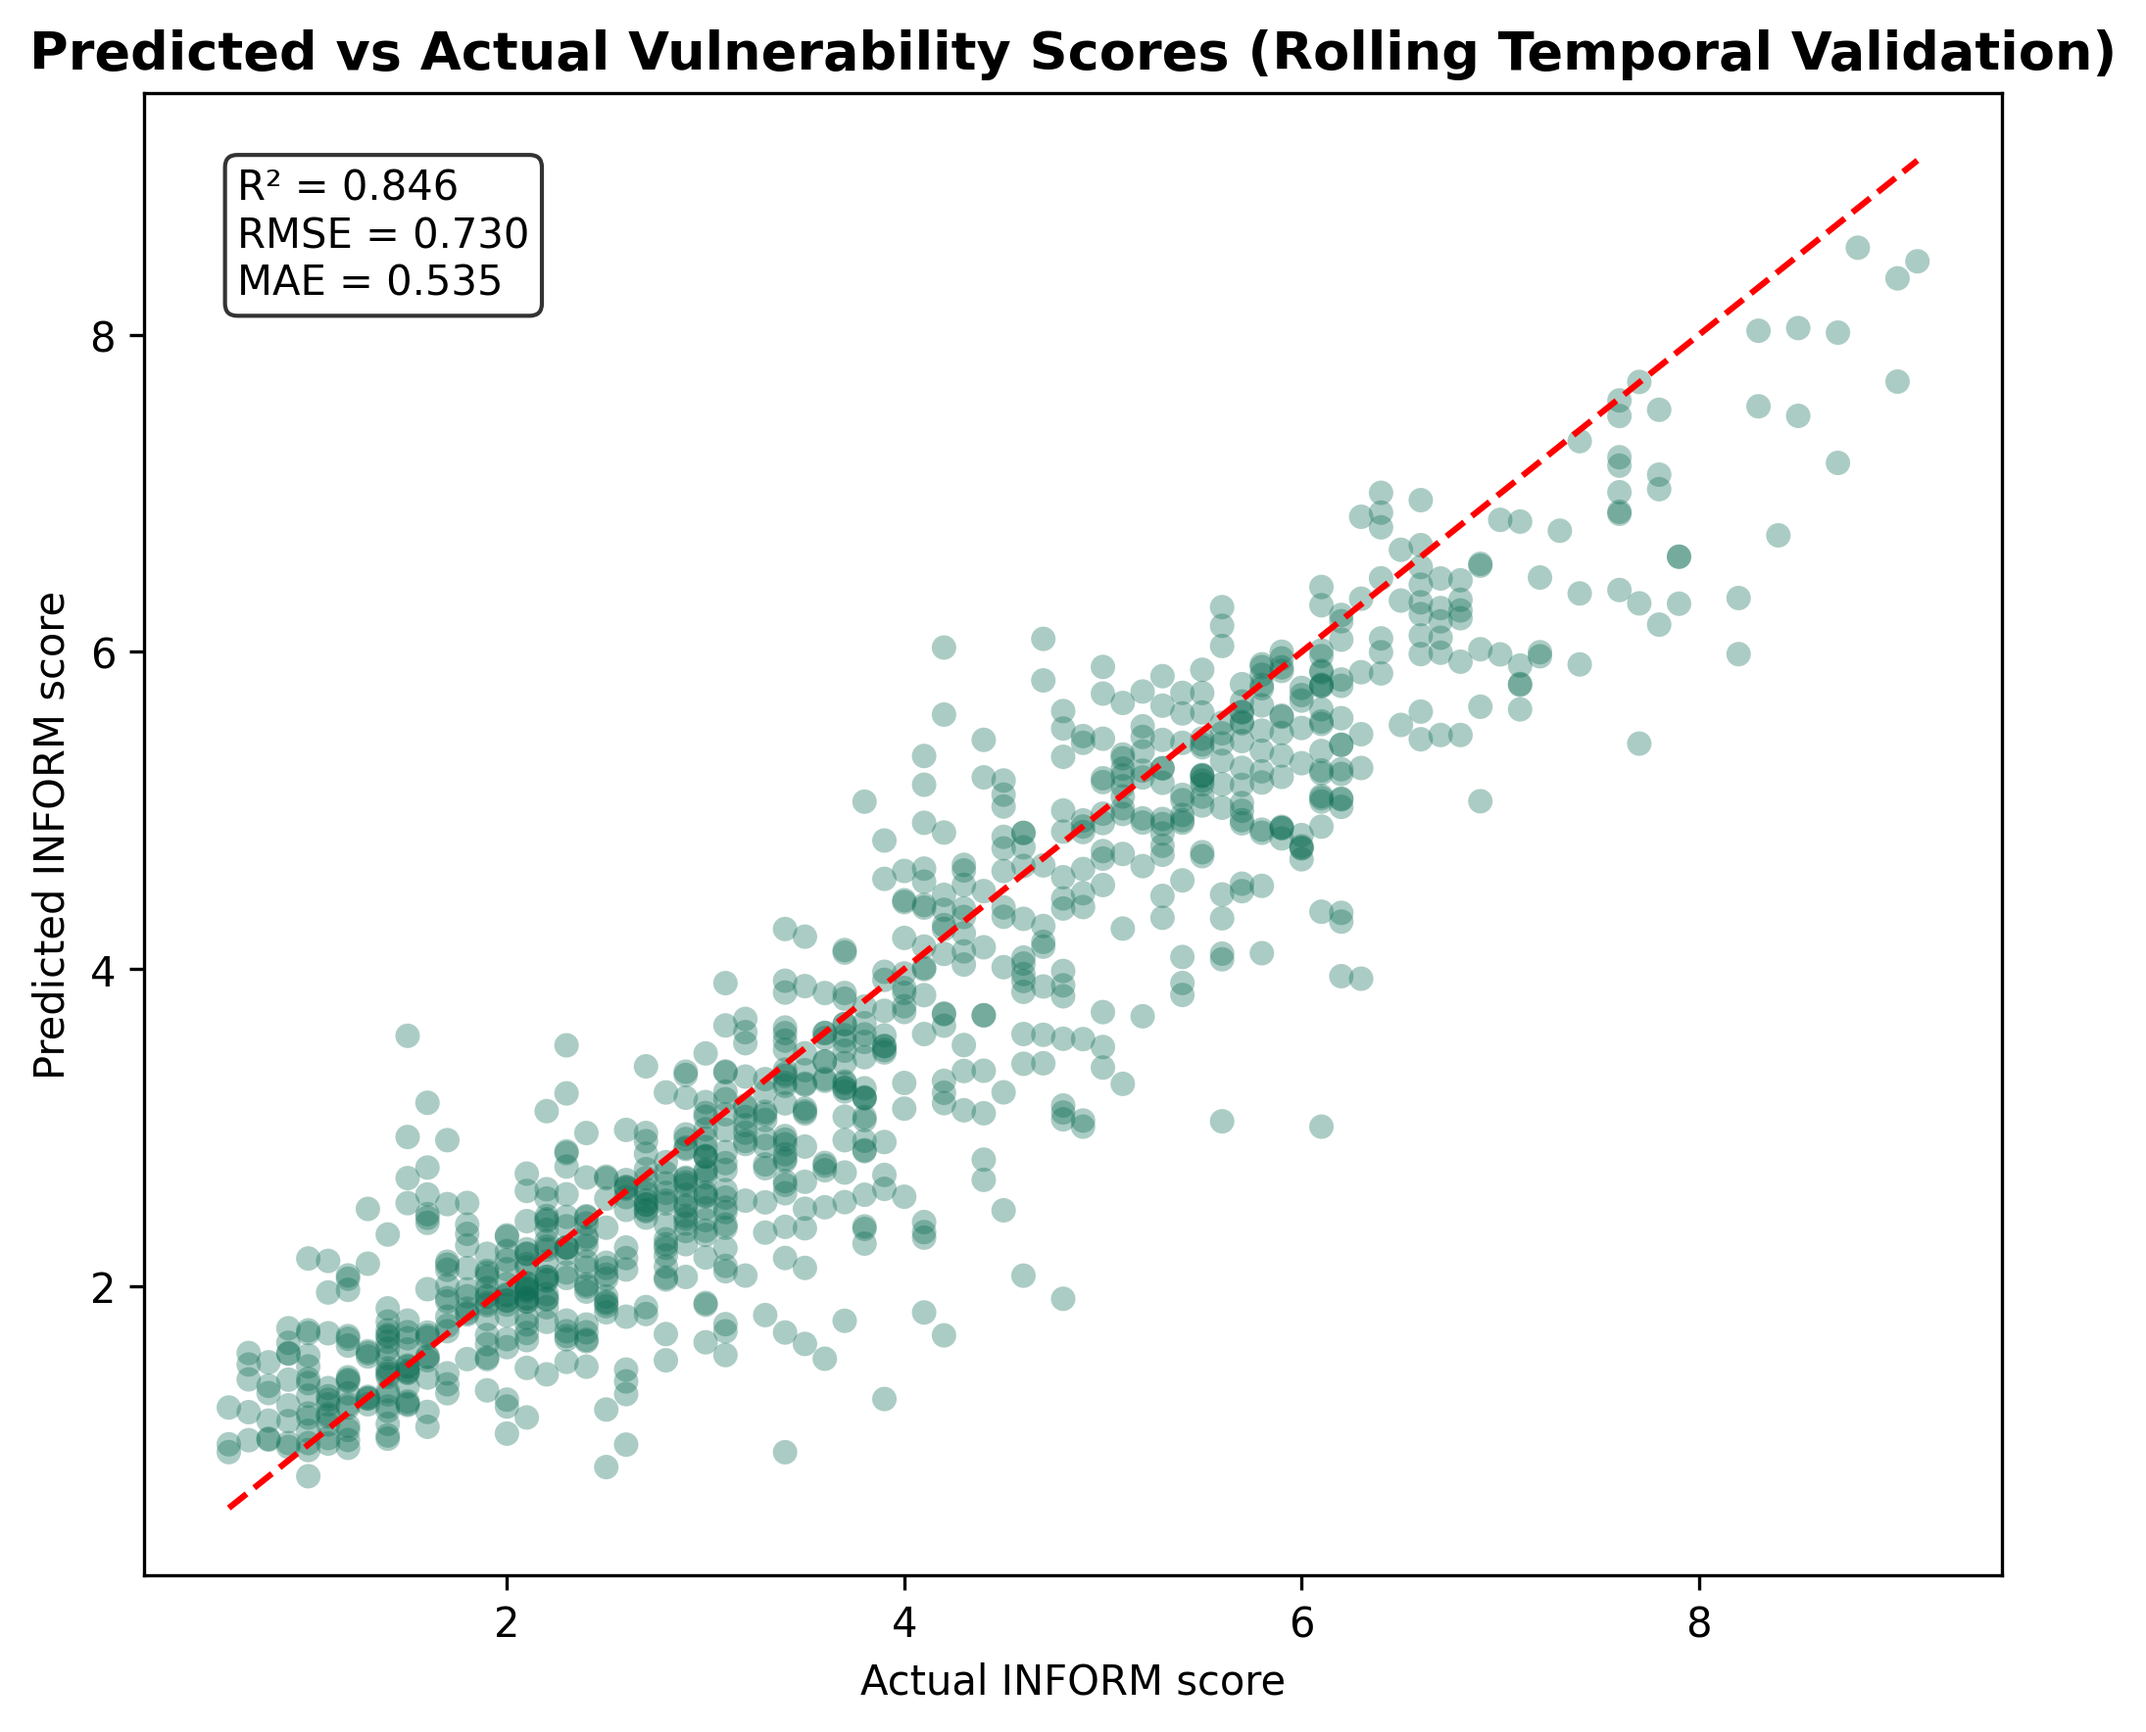
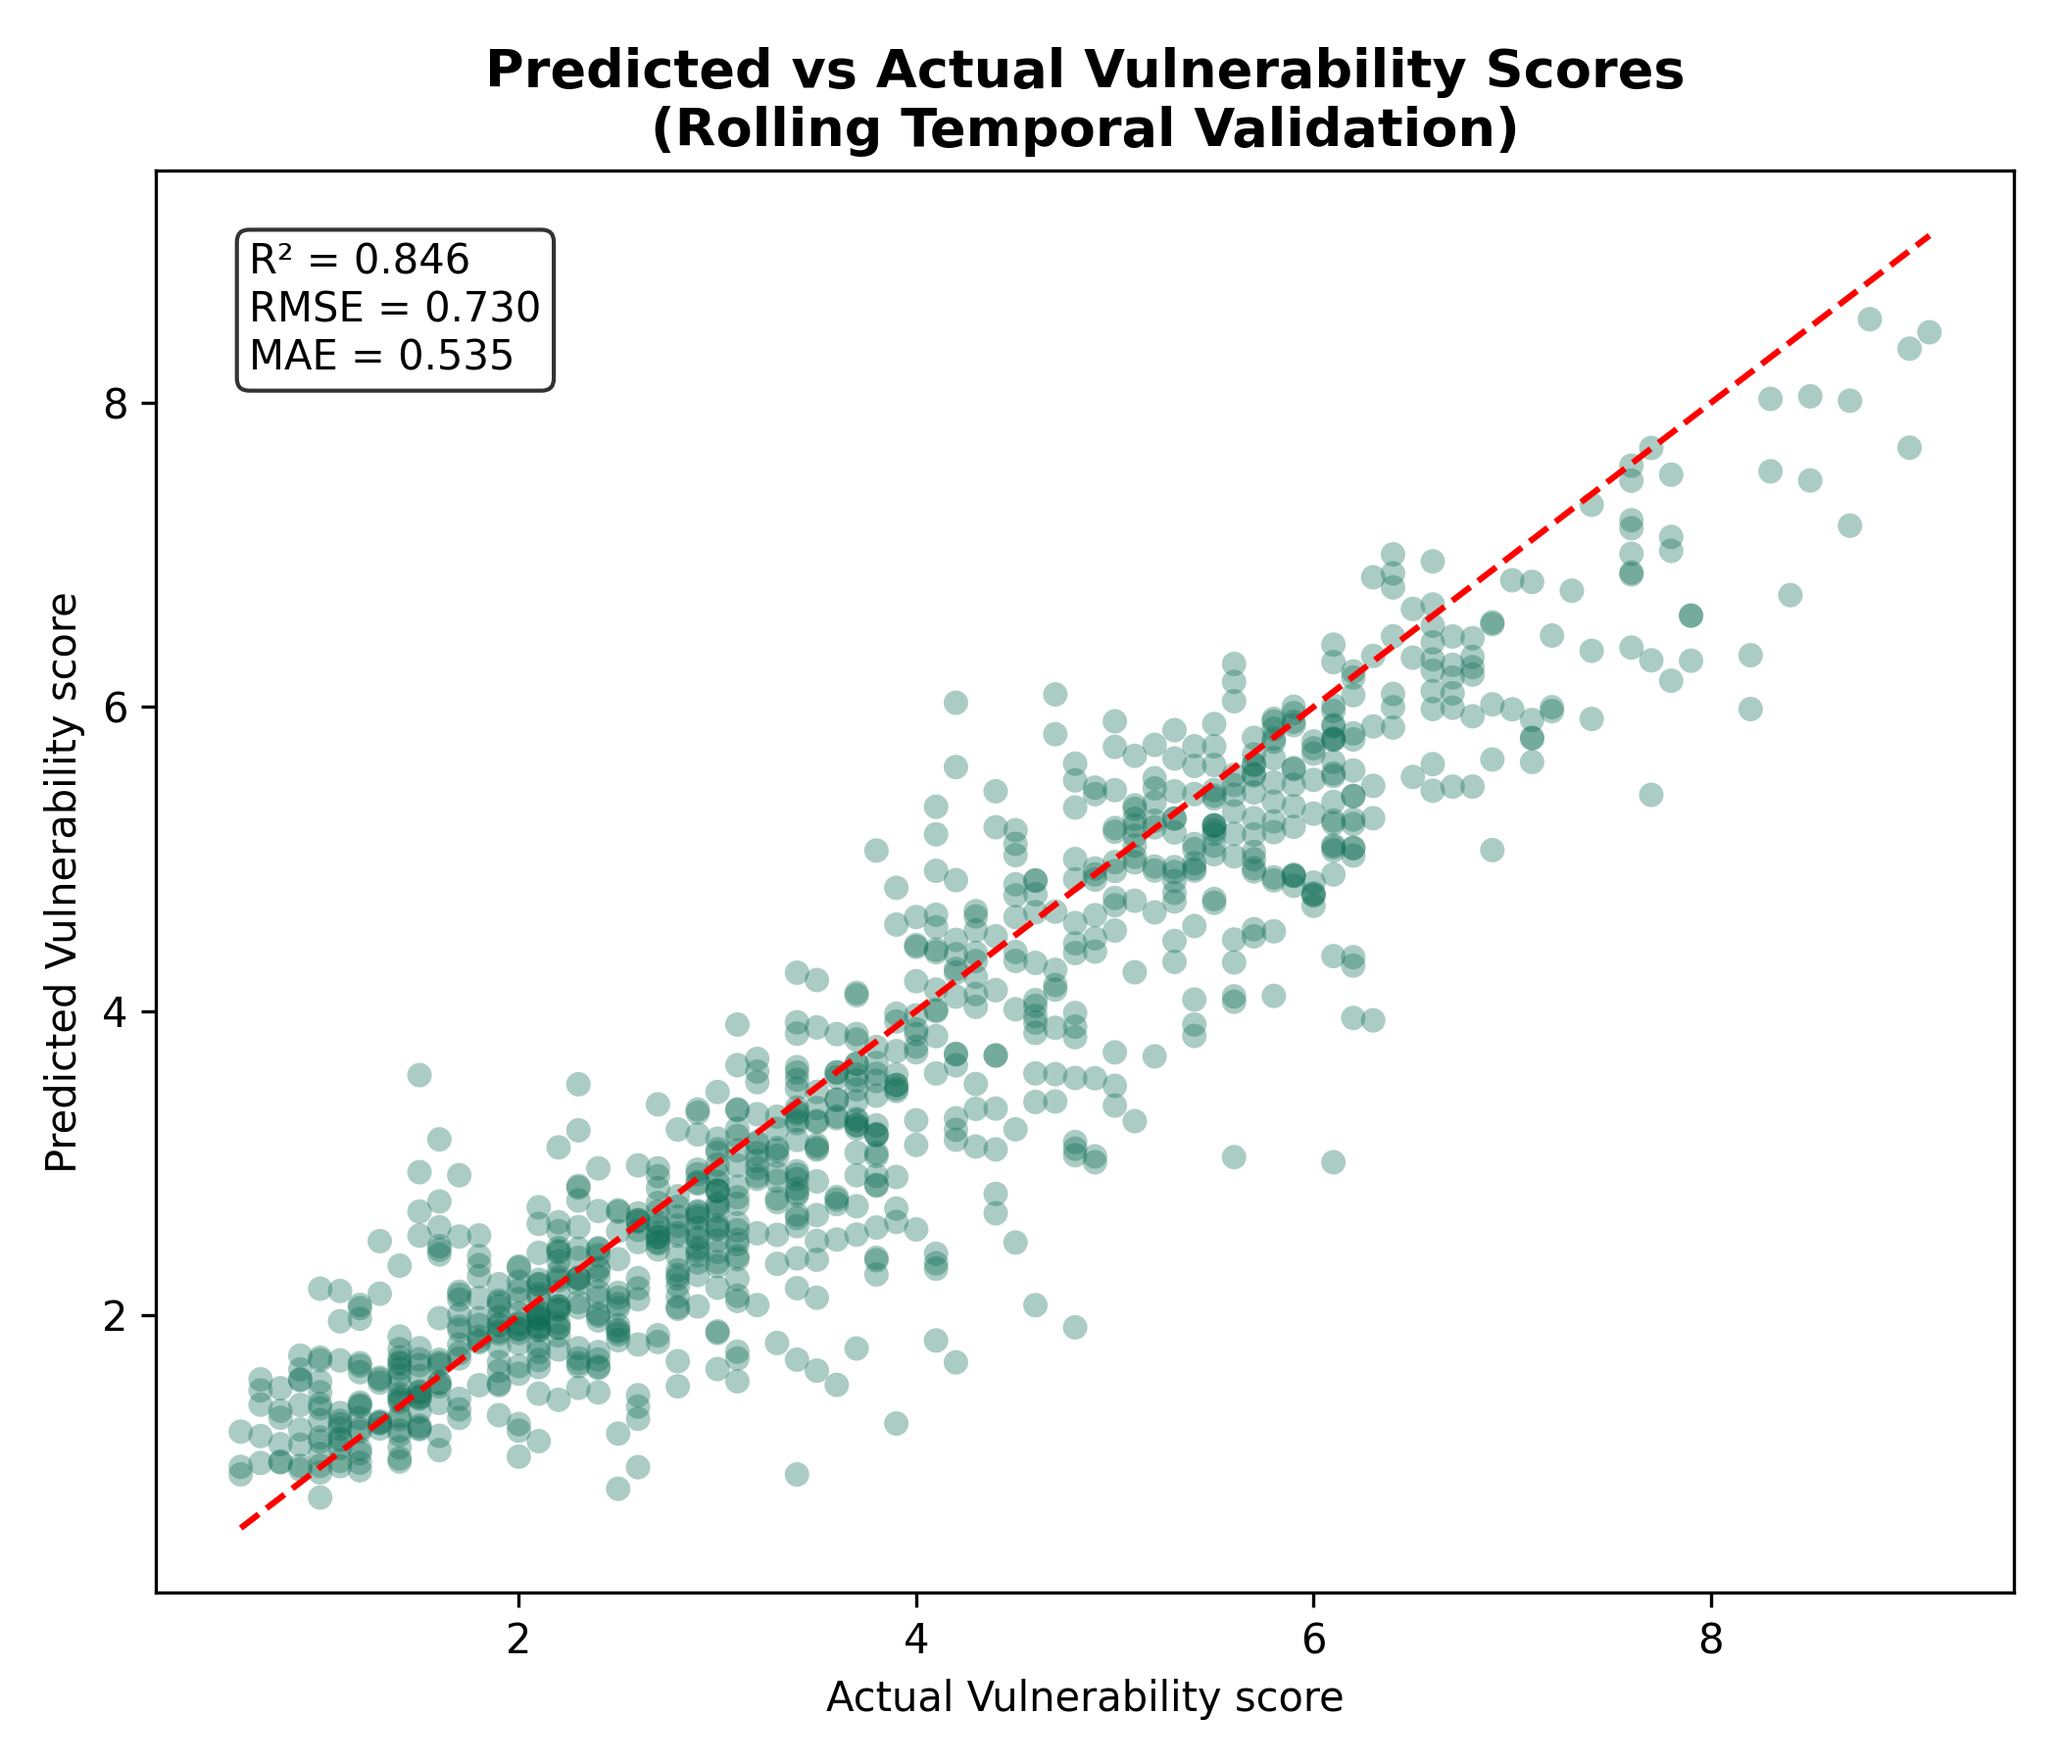
Fix plot size inconsistency and improve quality (consistent figsize, dpi, and layout)

diff --git a/src/vulnerability/plot_vulnerability_pred_vs_actual.py b/src/vulnerability/plot_vulnerability_pred_vs_actual.py
@@ -265,8 +265,8 @@ def plot_pred_vs_actual(pred_df: pd.DataFrame, title: str, output_path: Path) ->
     )
 
     ax.set_title(title, fontsize=13, weight="bold")
-    ax.set_xlabel("Actual INFORM score")
-    ax.set_ylabel("Predicted INFORM score")
+    ax.set_xlabel("Actual Vulnerability score")
+    ax.set_ylabel("Predicted Vulnerability score")
 
     metrics_text = f"R² = {r2:.3f}\nRMSE = {rmse:.3f}\nMAE = {mae:.3f}"
     ax.text(
@@ -280,7 +280,7 @@ def plot_pred_vs_actual(pred_df: pd.DataFrame, title: str, output_path: Path) ->
 
     output_path.parent.mkdir(parents=True, exist_ok=True)
     plt.tight_layout()
-    plt.savefig(output_path, dpi=300, bbox_inches="tight")
+    plt.savefig(output_path, dpi=300)
     plt.close()
 
     print(f"Saved plot to: {output_path}")
@@ -314,12 +314,12 @@ spatial_pred_df.to_csv(SPATIAL_PRED_PATH, index=False)
 
 plot_pred_vs_actual(
     temporal_pred_df,
-    "Predicted vs Actual Vulnerability Scores (Rolling Temporal Validation)",
+    "Predicted vs Actual Vulnerability Scores\n(Rolling Temporal Validation)",
     TEMP_PLOT_PATH,
 )
 
 plot_pred_vs_actual(
     spatial_pred_df,
-    "Predicted vs Actual Vulnerability Scores (Grouped Spatial Validation)",
+    "Predicted vs Actual Vulnerability Scores\n(Grouped Spatial Validation)",
     SPATIAL_PLOT_PATH,
 )

diff --git a/src/hazard/plot_hazard_pred_vs_actual.py b/src/hazard/plot_hazard_pred_vs_actual.py
@@ -283,12 +283,12 @@ if __name__ == "__main__":
 
     plot_pred_vs_actual(
         temporal_pred_df,
-        "Predicted vs Actual Hazard Scores (Rolling Temporal Validation)",
+        "Predicted vs Actual Hazard Scores\n(Rolling Temporal Validation)",
         TEMP_PLOT_PATH,
     )
 
     plot_pred_vs_actual(
         spatial_pred_df,
-        "Predicted vs Actual Hazard Scores (Grouped Spatial Validation)",
+        "Predicted vs Actual Hazard Scores\n(Grouped Spatial Validation)",
         SPATIAL_PLOT_PATH,
     )

diff --git a/src/lack_of_coping_capacity/plot_locc_pred_vs_actual.py b/src/lack_of_coping_capacity/plot_locc_pred_vs_actual.py
@@ -280,12 +280,12 @@ if __name__ == "__main__":
 
     plot_pred_vs_actual(
         temporal_pred_df,
-        "Predicted vs Actual LoCC Scores (Rolling Temporal Validation)",
+        "Predicted vs Actual LoCC Scores\n(Rolling Temporal Validation)",
         TEMP_PLOT_PATH,
     )
 
     plot_pred_vs_actual(
         spatial_pred_df,
-        "Predicted vs Actual LoCC Scores (Grouped Spatial Validation)",
+        "Predicted vs Actual LoCC Scores\n(Grouped Spatial Validation)",
         SPATIAL_PLOT_PATH,
     )
